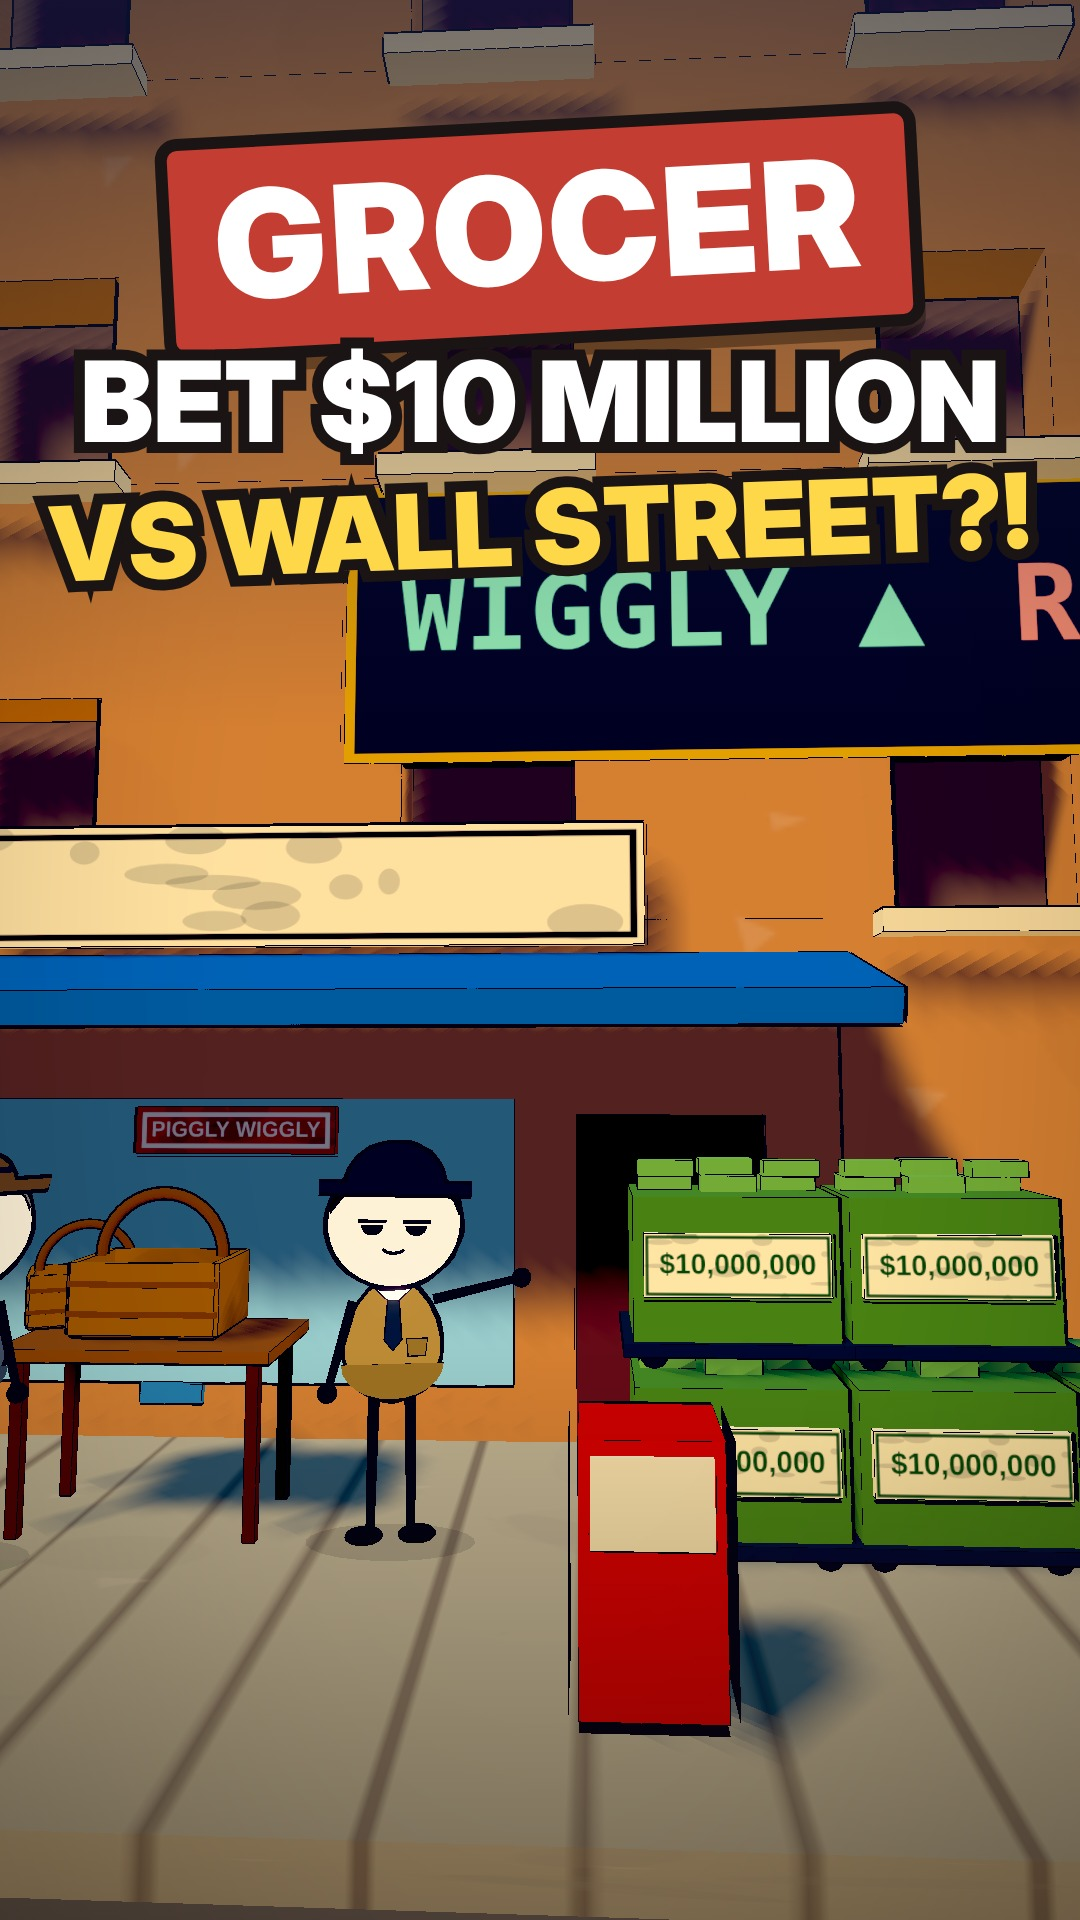
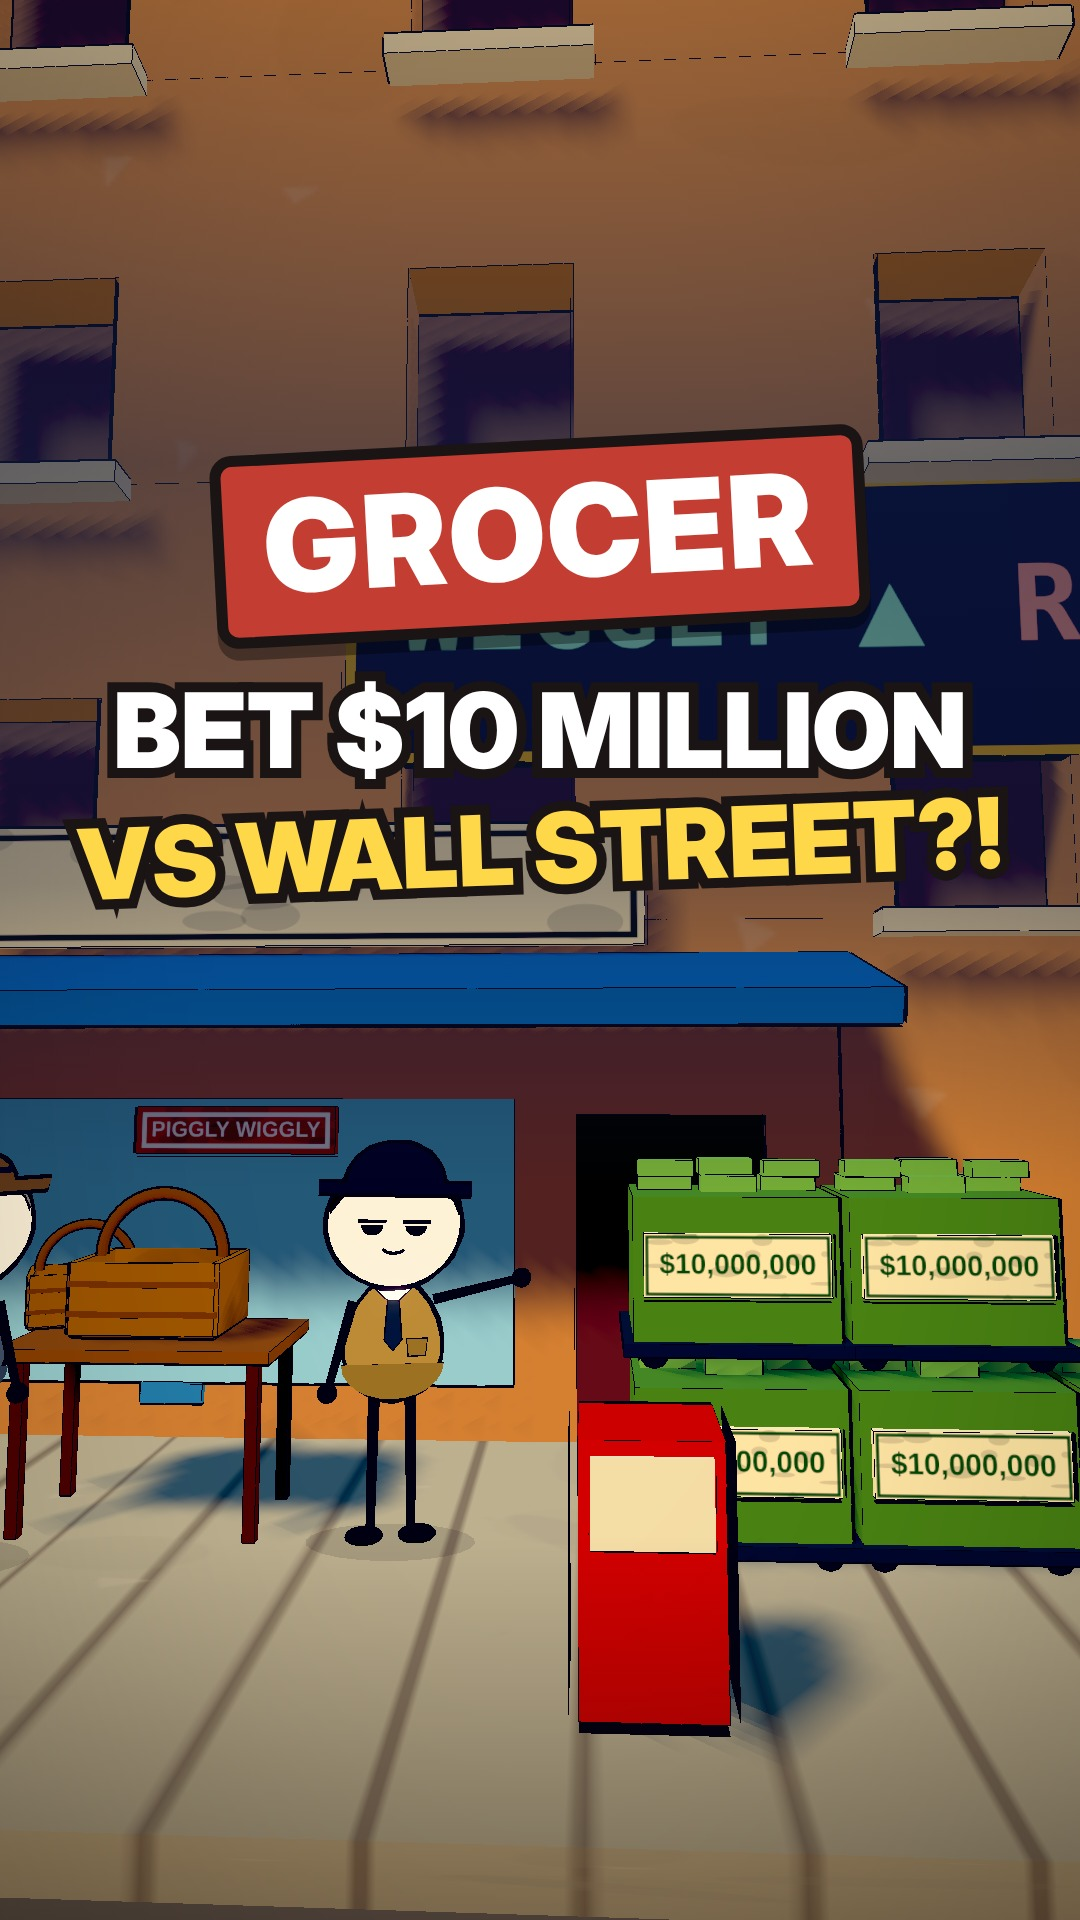
Thumbnails: keep all text inside centre safe square so grids on YouTube/IG/FB show it fully; redo 001-004
Claude-Session: https://claude.ai/code/session_01CJVLf83eXaqQYbamx498gS

diff --git a/pipeline/thumbnail/make_thumb.py b/pipeline/thumbnail/make_thumb.py
@@ -12,6 +12,11 @@ Reads jobs/<id>/meta.json:
   place it over the 3D sign so the original post still shows under it). Coordinates are on the 1080x1920 canvas.
 - optional "cups": {"x": 10, "y": 1330, "rows": 4, "size": 150, "label": "PUDDING"} draws a pyramid of big cartoon
   cups (generic, no logo) so the object itself grabs attention; pair it with a "sign" for the number.
+- optional "bg_shift": px to move the scene up (+) or down (-) so the key object lands inside the safe square
+  (the scene is zoomed just enough to cover the gap); optional "bg_zoom" (e.g. 1.2) to make the scene bigger.
+SAFE ZONE: YouTube channel grid, Instagram grid (3:4), Facebook (4:5 / 1:1) crop the 9:16 image around its centre.
+All text, signs and cups MUST stay inside the centre square x 60-1020, y 430-1490 (the 1:1 crop), so the
+thumbnail reads fully everywhere. The headline is auto-shrunk to fit 960 px wide; sign/cups y must be 950-1490.
 Renders a clean frame (no captions) with Remotion, overlays the text, writes jobs/<id>/thumbnail.jpg.
 """
 import json, os, subprocess, sys, shutil, html
@@ -47,16 +52,27 @@ if cp:  # optional pile of big cartoon cups (generic, no logo): {"x","y","rows",
             left = cp.get('x', 20) + r * w / 2 + i * w; top = cp.get('y', 1440) + (rows - 1 - r) * s * 0.78
             rot = ((i * 7 + r * 5) % 11) - 5
             cups_html += f'<div style="position:absolute;left:{left:.0f}px;top:{top:.0f}px;transform:rotate({rot}deg);filter:drop-shadow(0 10px 0 rgba(0,0,0,.3))">{cup}</div>'
-l2 = t['line2']; fs2 = 150 if len(l2) <= 10 else 128 if len(l2) <= 13 else 104
+sh = int(t.get('bg_shift', 0)); k = max(float(t.get('bg_zoom', 1)), (1920 + 2 * abs(sh)) / 1920)
 page = f'''<!DOCTYPE html><html><head><style>html,body{{margin:0;width:1080px;height:1920px;overflow:hidden}}
-body{{background:url(file://{bg}) center/cover}}
-.t{{position:absolute;left:30px;right:30px;text-align:center;font-family:'Inter Display','Arial Black',Arial,sans-serif;font-weight:900;paint-order:stroke fill;-webkit-text-stroke:22px #1a1414}}</style></head><body>
-<div style="position:absolute;inset:0;background:linear-gradient(180deg,rgba(15,30,70,.55) 0%,rgba(15,30,70,0) 38%,rgba(0,0,0,0) 70%,rgba(20,10,5,.4) 100%)"></div>
-<div style="position:absolute;top:120px;left:0;right:0;text-align:center"><span style="display:inline-block;background:{t.get('box_color','#2f6db3')};border:12px solid #1a1414;border-radius:22px;padding:6px 44px 14px;transform:rotate(-3deg);font-family:'Inter Display','Arial Black',Arial,sans-serif;font-weight:900;font-size:150px;color:#fff;letter-spacing:4px;box-shadow:0 12px 0 rgba(0,0,0,.35)">{e(t['box'])}</span></div>
+body{{background:url(file://{bg}) no-repeat;background-size:{1080*k:.0f}px {1920*k:.0f}px;background-position:{-(1080*k-1080)/2:.0f}px {-(1920*k-1920)/2-sh:.0f}px}}
+.t{{position:absolute;left:60px;width:960px;text-align:center;white-space:nowrap;font-family:'Inter Display','Arial Black',Arial,sans-serif;font-weight:900;paint-order:stroke fill;-webkit-text-stroke:20px #1a1414;line-height:1}}</style></head><body>
+<div style="position:absolute;inset:0;background:linear-gradient(180deg,rgba(15,30,70,.25) 0%,rgba(15,30,70,.6) 24%,rgba(15,30,70,.45) 46%,rgba(0,0,0,0) 62%,rgba(0,0,0,0) 80%,rgba(20,10,5,.4) 100%)"></div>
+<div id="box" style="position:absolute;top:440px;left:0;right:0;text-align:center"><span style="display:inline-block;background:{t.get('box_color','#2f6db3')};border:11px solid #1a1414;border-radius:22px;padding:4px 40px 12px;transform:rotate(-3deg);font-family:'Inter Display','Arial Black',Arial,sans-serif;font-weight:900;font-size:128px;color:#fff;letter-spacing:3px;box-shadow:0 12px 0 rgba(0,0,0,.35);white-space:nowrap">{e(t['box'])}</span></div>
 {cups_html}
 {sign_html}
-<div class="t" style="top:345px;font-size:112px;color:#fff;line-height:1">{e(t['line1'])}</div>
-<div class="t" style="top:475px;font-size:{fs2}px;color:#ffd84a;line-height:1;transform:rotate(-2deg)">{e(l2)}</div>
+<div class="t" id="l1" style="top:640px;font-size:104px;color:#fff">{e(t['line1'])}</div>
+<div class="t" id="l2" style="top:760px;font-size:136px;color:#ffd84a;transform:rotate(-2deg)">{e(t['line2'])}</div>
+<script>
+// shrink any headline that is wider than the safe square (960 px) so nothing is cut on any platform
+function fit(el,max,min){{let f=parseFloat(el.style.fontSize);const r=document.createRange();
+ for(;f>min;f-=2){{el.style.fontSize=f+'px';r.selectNodeContents(el);if(r.getBoundingClientRect().width<=max)break;}}}}
+const b=document.querySelector('#box span');fit(b,900,70);
+fit(document.getElementById('l1'),940,56);fit(document.getElementById('l2'),940,60);
+// stack lines under the box with even gaps
+const bb=b.getBoundingClientRect();const l1=document.getElementById('l1'),l2=document.getElementById('l2');
+l1.style.top=(bb.bottom+28)+'px';const h1=parseFloat(l1.style.fontSize);
+l2.style.top=(bb.bottom+28+h1+18)+'px';
+</script>
 </body></html>'''
 hp = os.path.abspath(os.path.join(tmp, 'thumb.html')); open(hp, 'w').write(page)
 png = os.path.abspath(os.path.join(tmp, 'thumb.png'))

diff --git a/PIPELINE.md b/PIPELINE.md
@@ -148,7 +148,8 @@ Also post the final thumbnail the same way (`--image jobs/<id>/thumbnail.jpg`).
    busy, facts right). Iterate until clean. Do not render the full video yourself — Actions does it.
 4. Thumbnail: choose a hook-shot frame, fill `meta.json.thumb` {frame, box, line1, line2, box_color}, run
    `python3 pipeline/thumbnail/make_thumb.py jobs/<id>`, look at the result. No year, no twist on the thumbnail.
-   The thumbnail must be a JPG under 2 MB: on publish day n8n puts its raw URL in the feed item <link>, and Zapier sets it as the YouTube thumbnail (if missing, assets/default_thumbnail.jpg is used).
+   Keep every word, sign and key object inside the centre square (x 60-1020, y 430-1490): YouTube/IG/FB grids crop the
+   9:16 image around the centre; use `bg_shift` to move the key object in. The thumbnail must be a JPG under 2 MB: on publish day n8n puts its raw URL in the feed item <link>, and Zapier sets it as the YouTube thumbnail (if missing, assets/default_thumbnail.jpg is used).
 5. Do not commit `node_modules/`, `out/`, `stills/`, `RAW.wav` (see .gitignore). Commit + push, then
    `set_status <id> render_queued`.
 

diff --git a/docs/LEARNINGS.md b/docs/LEARNINGS.md
@@ -8,3 +8,4 @@
 - Owner's laptop has Windows Smart App Control, which blocks Remotion's renderer: never ask him to render locally.
 - 002 Disney: progress.py/set_status.py do `git reset --hard FETCH_HEAD`. If your own push failed (n8n pushed first), that wipes your unpushed commit. Always `git pull --rebase origin main && git push` and check it succeeded BEFORE calling them (recover with git reflog + cherry-pick).
 - 002 Disney: in the first check round the camera flew through a background extra and foreground bushes hid the main character. Keep extras and bushes off the camera path.
+- 2026-11-12: Owner saw thumbnail text cut off in the channel grid. All text/signs now live in the centre 1:1 square (make_thumb.py safe zone), so the thumb reads fully on YouTube, Instagram (3:4) and Facebook (4:5/1:1).
